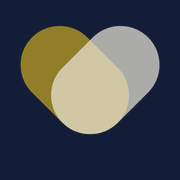
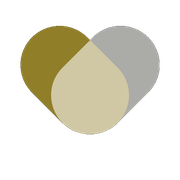
Add files via upload

diff --git a/korporaciya-zvezd.html b/korporaciya-zvezd.html
@@ -26,21 +26,24 @@
   --navy:#0a0c14;
   --navy2:#0f1220;
   --navy3:#141828;
-  --navy4:#1e2555;
-  --gold:#f5c842;
-  --gold2:#fad96a;
-  --teal:#4ecdc4;
+  --bg2:#0f1220;
+  --gold:#c9a257;
+  --gold2:#ddb96a;
+  --gold-border:rgba(201,162,87,.25);
+  --gold-border2:rgba(201,162,87,.45);
+  --teal:#5ab4ae;
   --white:#ffffff;
-  --text:#f0f2fa;
-  --muted:#bbc4e0;
-  --border:rgba(245,200,66,.2);
-  --border2:rgba(245,200,66,.35);
+  --text:#e8eaf2;
+  --text2:#c8ccd8;
+  --muted:#8e94ab;
+  --border:rgba(201,162,87,.25);
+  --border2:rgba(201,162,87,.45);
 }
 html{scroll-behavior:smooth}
 body{background:var(--navy);color:var(--text);font-family:'Inter',sans-serif;overflow-x:hidden;line-height:1.6}
 
 /* NAV */
-nav{position:fixed;top:0;left:0;right:0;z-index:300;background:rgba(13,16,51,.96);backdrop-filter:blur(12px);border-bottom:1px solid var(--border)}
+nav{position:fixed;top:0;left:0;right:0;z-index:300;background:rgba(10,12,20,.97);backdrop-filter:blur(20px);border-bottom:1px solid var(--gold-border)}
 .nav-inner{max-width:1200px;margin:0 auto;display:flex;align-items:center;justify-content:space-between;height:64px;padding:0 2rem}
 .logo{display:flex;align-items:center;gap:.5rem;font-family:'Cormorant Garamond',serif;font-size:1.25rem;font-weight:600;color:var(--gold);letter-spacing:.06em;text-decoration:none}
 .logo-img{height:28px;width:28px;object-fit:contain;flex-shrink:0}
@@ -56,7 +59,7 @@ nav{position:fixed;top:0;left:0;right:0;z-index:300;background:rgba(13,16,51,.96
 .mob-menu a{display:block;color:var(--muted);text-decoration:none;font-size:.82rem;letter-spacing:.06em;padding:.7rem 0;border-bottom:1px solid var(--gold-border)}
 .mob-menu a:last-child{color:var(--gold);border-bottom:none}
 .nav-back:hover{color:var(--gold)}
-.nav-btn{background:var(--gold);color:var(--navy);padding:.45rem 1.4rem;font-family:'Inter',sans-serif;font-size:.75rem;font-weight:700;letter-spacing:.08em;text-transform:uppercase;text-decoration:none;transition:background .2s}
+.nav-btn{background:transparent;border:1px solid var(--gold-border2);color:var(--gold);padding:.45rem 1.4rem;font-size:.75rem;font-weight:500;letter-spacing:.06em;text-decoration:none;border-radius:2px;transition:all .2s}
 .nav-btn:hover{background:var(--gold2)}
 
 /* BUTTONS */